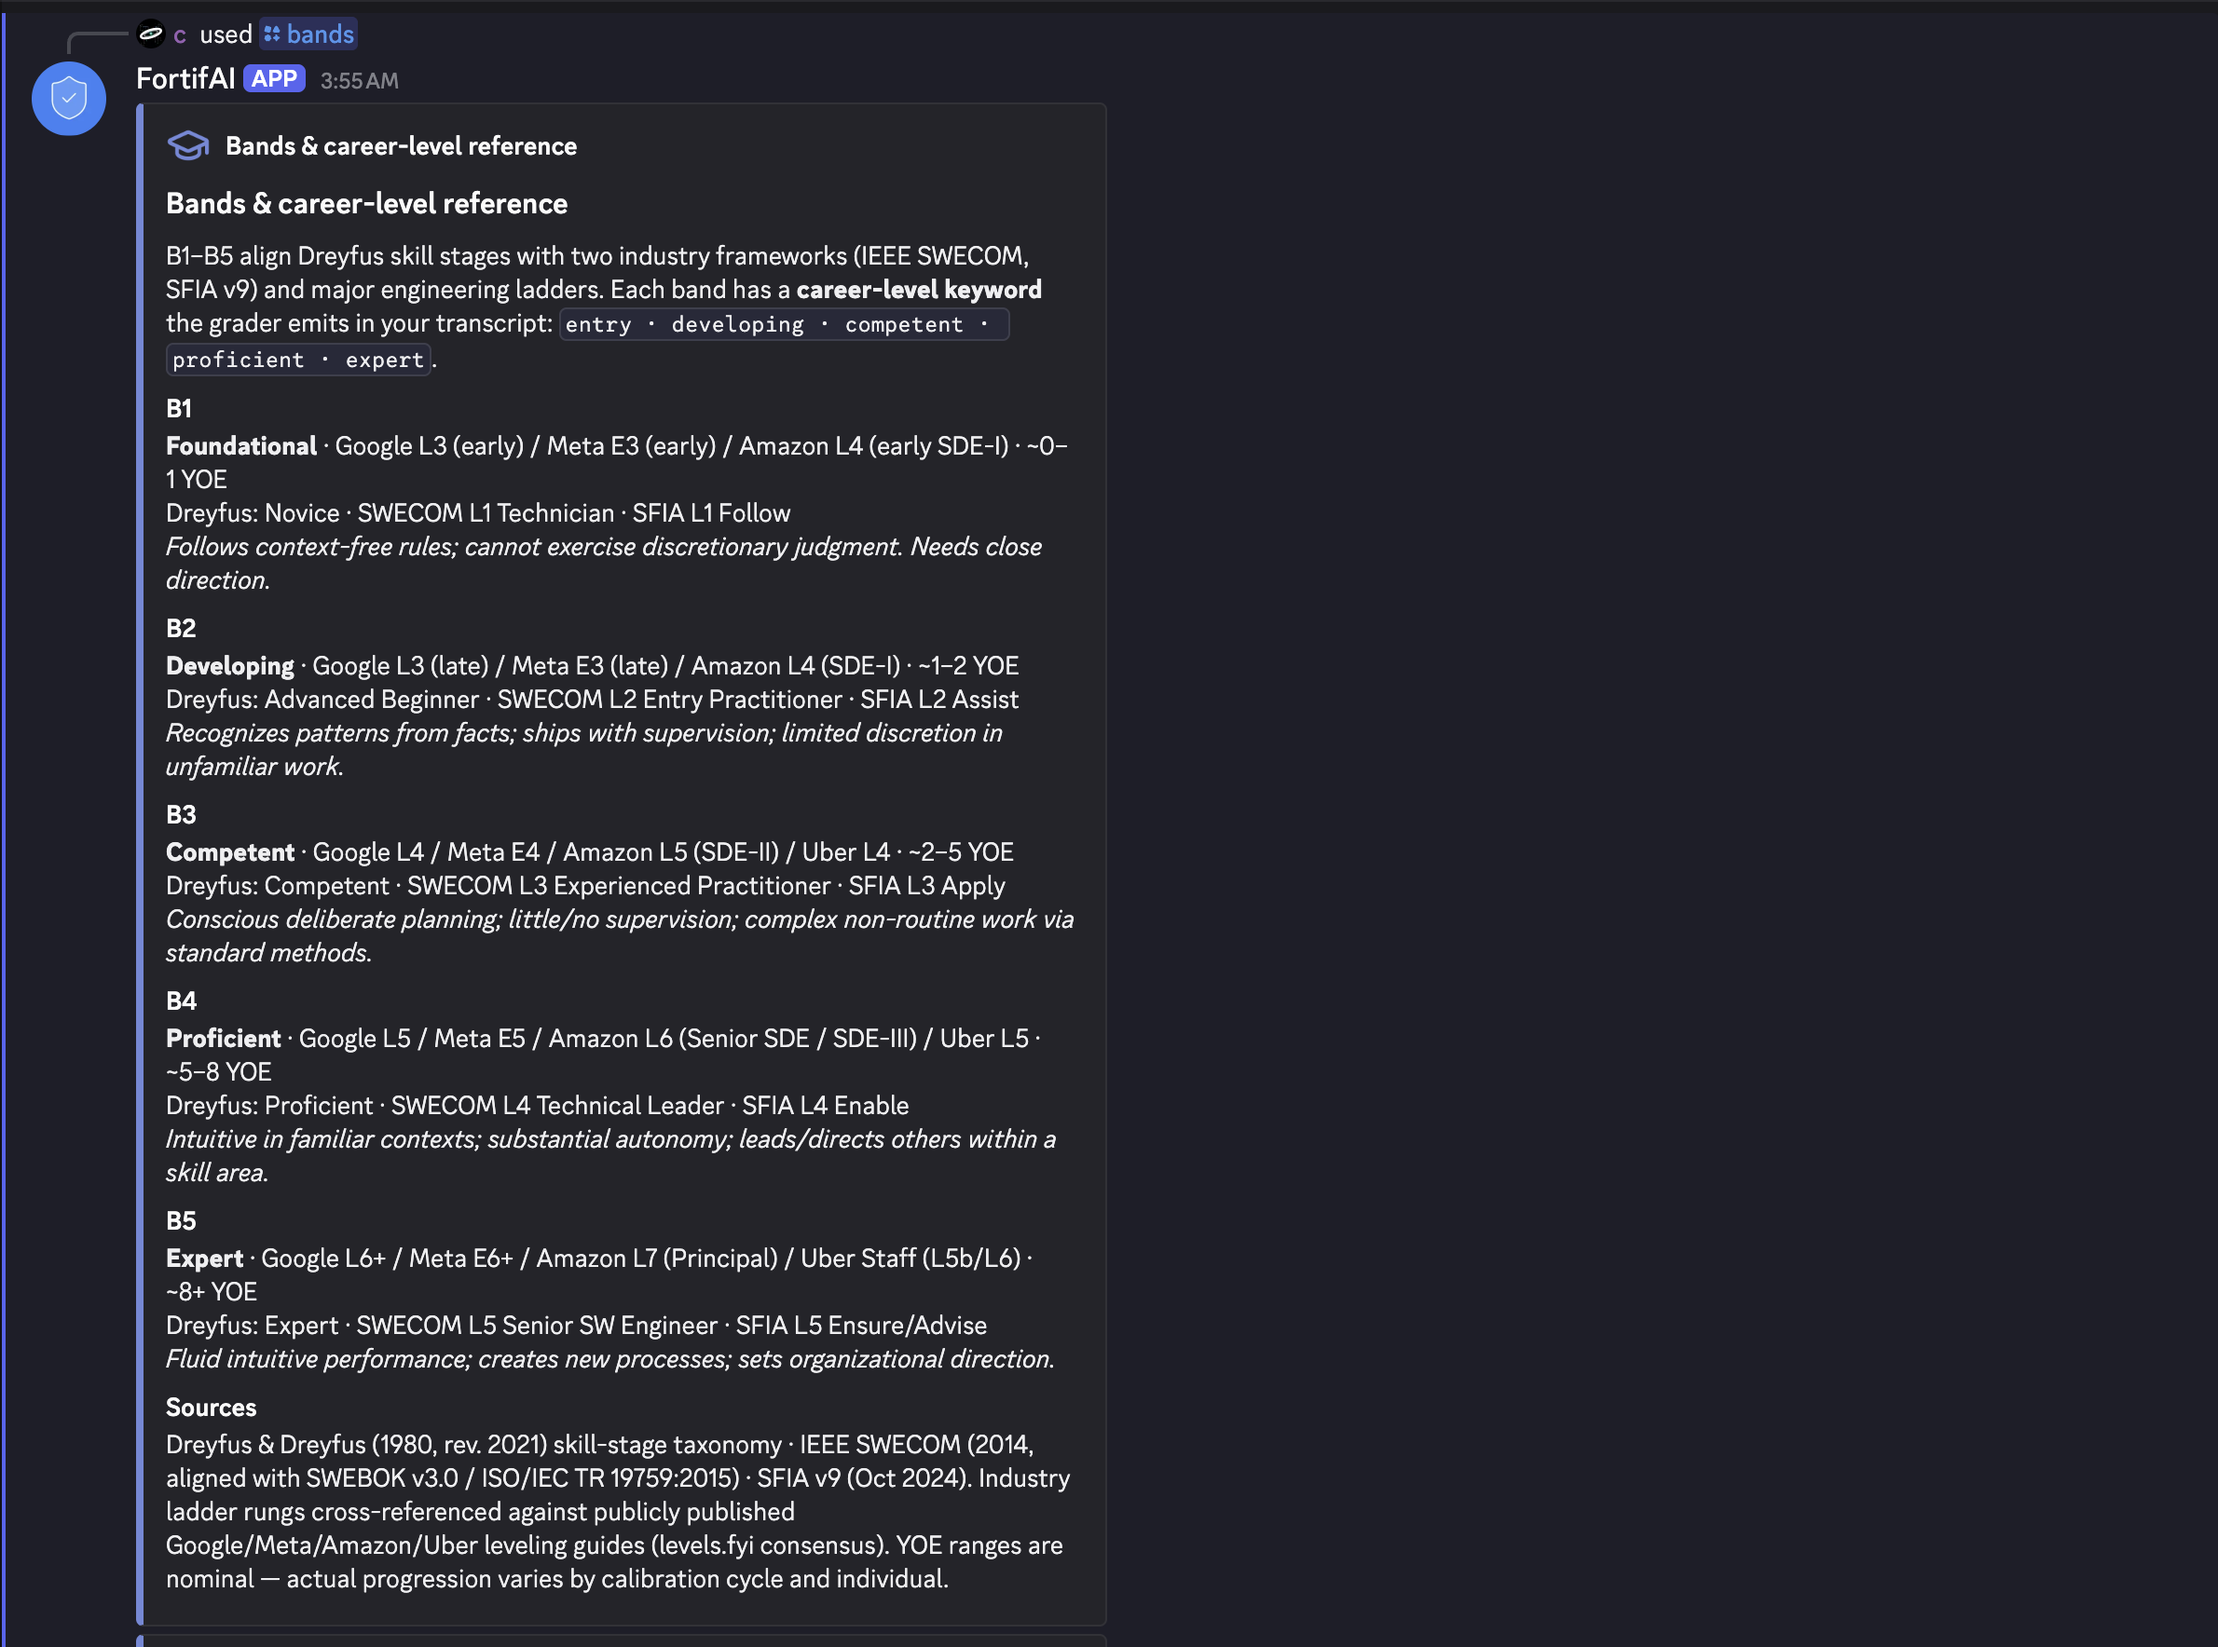
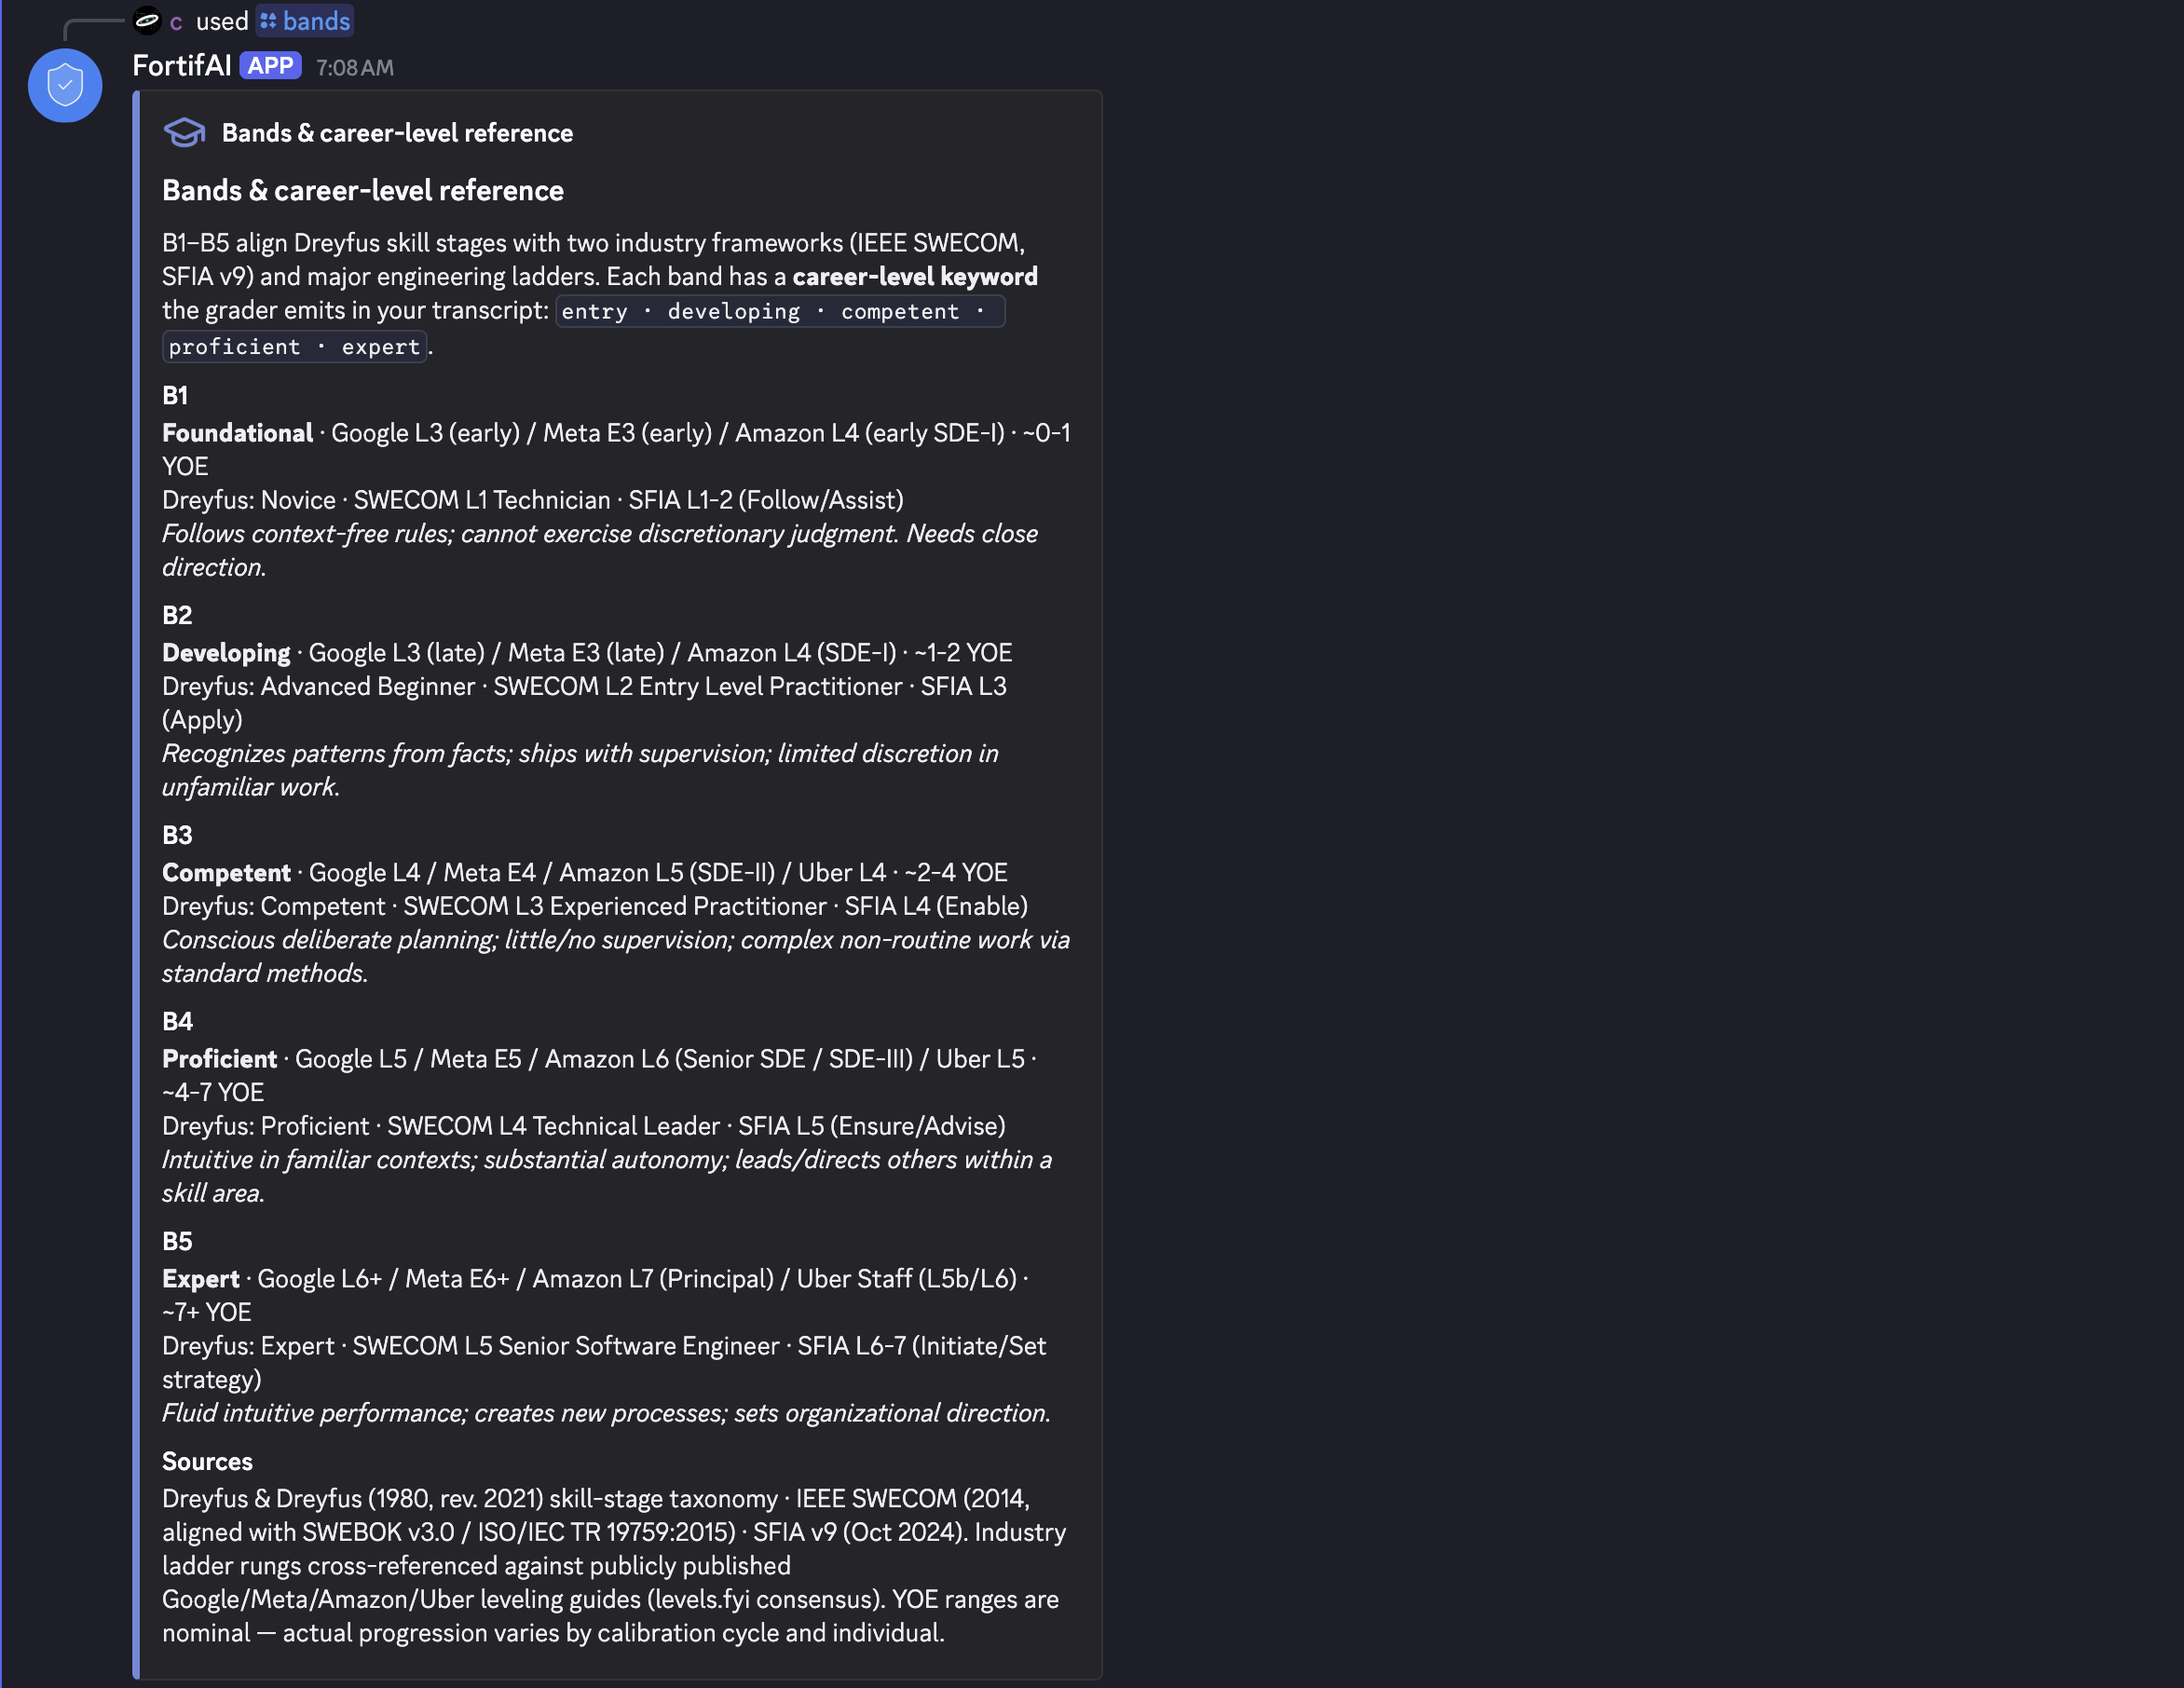
feat: regrade last sweep added, readme fleshed out

Changed region(s): [[0.0, 0.0, 0.4983, 0.9955]]

diff --git a/commands/sweep.py b/commands/sweep.py
@@ -15,6 +15,7 @@ _SWEEP_MODES = [
     app_commands.Choice(name="All — cleanup + regrade + catalog (recommended)", value="all"),
     app_commands.Choice(name="Cleanup only — drop runs with no answers", value="cleanup"),
     app_commands.Choice(name="Regrade only — re-run grading on failed runs", value="regrade"),
+    app_commands.Choice(name="Regrade last — force re-grade the latest run (even if already graded)", value="regrade-last"),
     app_commands.Choice(name="Catalog only — heal meta.json from your run history", value="catalog"),
 ]
 
@@ -40,7 +41,7 @@ async def _regrade_one(user_id: str, session_id: str, run: dict[str, Any], sessi
 
 def register(tree: app_commands.CommandTree) -> None:
     @tree.command(name="sweep", description="Sweep abandoned runs, re-grade failed gradings, and heal the meta.json catalog.")
-    @app_commands.describe(mode="cleanup, regrade, catalog, or all. Default: all.")
+    @app_commands.describe(mode="cleanup, regrade, regrade-last, catalog, or all. Default: all.")
     @app_commands.choices(mode=_SWEEP_MODES)
     async def sweep(interaction: discord.Interaction, mode: app_commands.Choice[str] | None = None):
         user_id = str(interaction.user.id)
@@ -58,6 +59,10 @@ def register(tree: app_commands.CommandTree) -> None:
         do_cleanup = chosen in ("cleanup", "all")
         do_regrade = chosen in ("regrade", "all")
         do_catalog = chosen in ("catalog", "all")
+        # regrade-last is mutually exclusive with the other modes — it's a force
+        # re-grade of the latest run regardless of existing grading state, used
+        # to apply prompt/template changes to a previously-graded run.
+        do_regrade_last = chosen == "regrade-last"
 
         await interaction.response.defer(ephemeral=True, thinking=True)
 
@@ -82,6 +87,37 @@ def register(tree: app_commands.CommandTree) -> None:
                     regraded_ids.append(str(r.get("id", "?")))
                 else:
                     failed_regrades.append((str(r.get("id", "?")), err))
+
+        # Force re-grade of the latest run, regardless of prior grading state.
+        # Mutually exclusive with do_regrade above.
+        force_regrade_body: str | None = None
+        force_regrade_failed = False
+        if do_regrade_last:
+            active_after = parse.find_active_session_by_id(user_id, session_id) or {}
+            runs = active_after.get("runs", []) or []
+            if not runs:
+                force_regrade_body = "_No runs in this session to regrade._"
+            else:
+                latest = runs[-1]
+                latest_id = str(latest.get("id", "?"))
+                if latest.get("status") != "complete":
+                    force_regrade_body = (
+                        f"⚠ Latest run `#{latest_id}` is not complete "
+                        f"(status `{latest.get('status', '?')}`)."
+                    )
+                    force_regrade_failed = True
+                elif not parse._run_has_any_response(latest):
+                    force_regrade_body = f"⚠ Latest run `#{latest_id}` has no responses to grade."
+                    force_regrade_failed = True
+                else:
+                    ok, err = await _regrade_one(user_id, session_id, latest, active_after)
+                    if ok:
+                        force_regrade_body = (
+                            f"✅ Re-graded run `#{latest_id}` (forced; previous grading state ignored)."
+                        )
+                    else:
+                        force_regrade_body = f"⚠ Re-grade failed for run `#{latest_id}` — {err}"
+                        force_regrade_failed = True
 
         catalog_summary: dict[str, Any] | None = None
         if do_catalog:
@@ -111,6 +147,9 @@ def register(tree: app_commands.CommandTree) -> None:
                 body_lines.append("_No runs needed re-grading._")
             fields_listed.append(("♻ Regrade", "\n".join(body_lines), False))
 
+        if do_regrade_last and force_regrade_body is not None:
+            fields_listed.append(("♻ Regrade last", force_regrade_body, False))
+
         if do_catalog and catalog_summary is not None:
             runs_n = catalog_summary["runs_processed"]
             fields_added = catalog_summary["fields_added"]
@@ -128,8 +167,13 @@ def register(tree: app_commands.CommandTree) -> None:
                 body = " ".join(parts)
             fields_listed.append(("📚 Catalog", body, False))
 
-        color = embeds.OK_GREEN if not failed_regrades else embeds.WARN_AMBER
-        icon = embeds.ICON_NAMES["regrade"] if do_regrade and not do_cleanup and not do_catalog else embeds.ICON_NAMES["sweep"]
+        any_failure = bool(failed_regrades) or force_regrade_failed
+        color = embeds.OK_GREEN if not any_failure else embeds.WARN_AMBER
+        regrade_only = (
+            (do_regrade and not do_cleanup and not do_catalog and not do_regrade_last)
+            or do_regrade_last
+        )
+        icon = embeds.ICON_NAMES["regrade"] if regrade_only else embeds.ICON_NAMES["sweep"]
         embed, files = embeds.build(
             title="Housekeeping complete",
             description=f"Mode: **{chosen}** · session **`{active.get('name', '?')}`** (id `{active.get('id', '?')}`).",

diff --git a/README.md b/README.md
@@ -28,7 +28,7 @@ As LLMs become indispensable in technical workflows, distinguishing genuine comp
 - **Sessions.** `/sessionbegin`, `/sessionend`, `/sessionswitch`, `/sessionlist`, `/sessionrestore` — multiple concurrent contexts per user, runs persisted across restarts, deduplicated reading list emitted on close. `/sessionbegin` optionally declares default `industry`/`fields`/`topics`/`domain`/`stack`, inherited by `/knowledgeharden` when per-run args are unset.
 - **Analytics.** `/stats runcount|timeline|session` and `/analyze trends|gaps|bias` surface coverage, growth deltas, and field-rotation bias as embeds with inline matplotlib charts.
 - `**/transcript`.** Dumps the full Q&A, grading, and literature for any past run.
-- **Reminders & sweep.** Recurring DM nudges via APScheduler (sqlite-backed); `/sweep` reclaims abandoned runs, regrades failures, and heals the meta.json catalog from run history (modes: `cleanup`, `regrade`, `catalog`, `all`).
+- **Reminders & sweep.** Recurring DM nudges via APScheduler (sqlite-backed); `/sweep` reclaims abandoned runs, regrades failures, and heals the meta.json catalog from run history (modes: `cleanup`, `regrade`, `regrade-last`, `catalog`, `all`). `regrade-last` force-regrades the most recent run regardless of prior grading state — use after prompt or template changes to re-score with the new rules.
 - **8 SWE fields out of the box.** `templates/swe/` ships graded against Dreyfus + SWECOM + SFIA; drop a `templates/<industry>/` directory to add a domain.
 
 ## Examples
